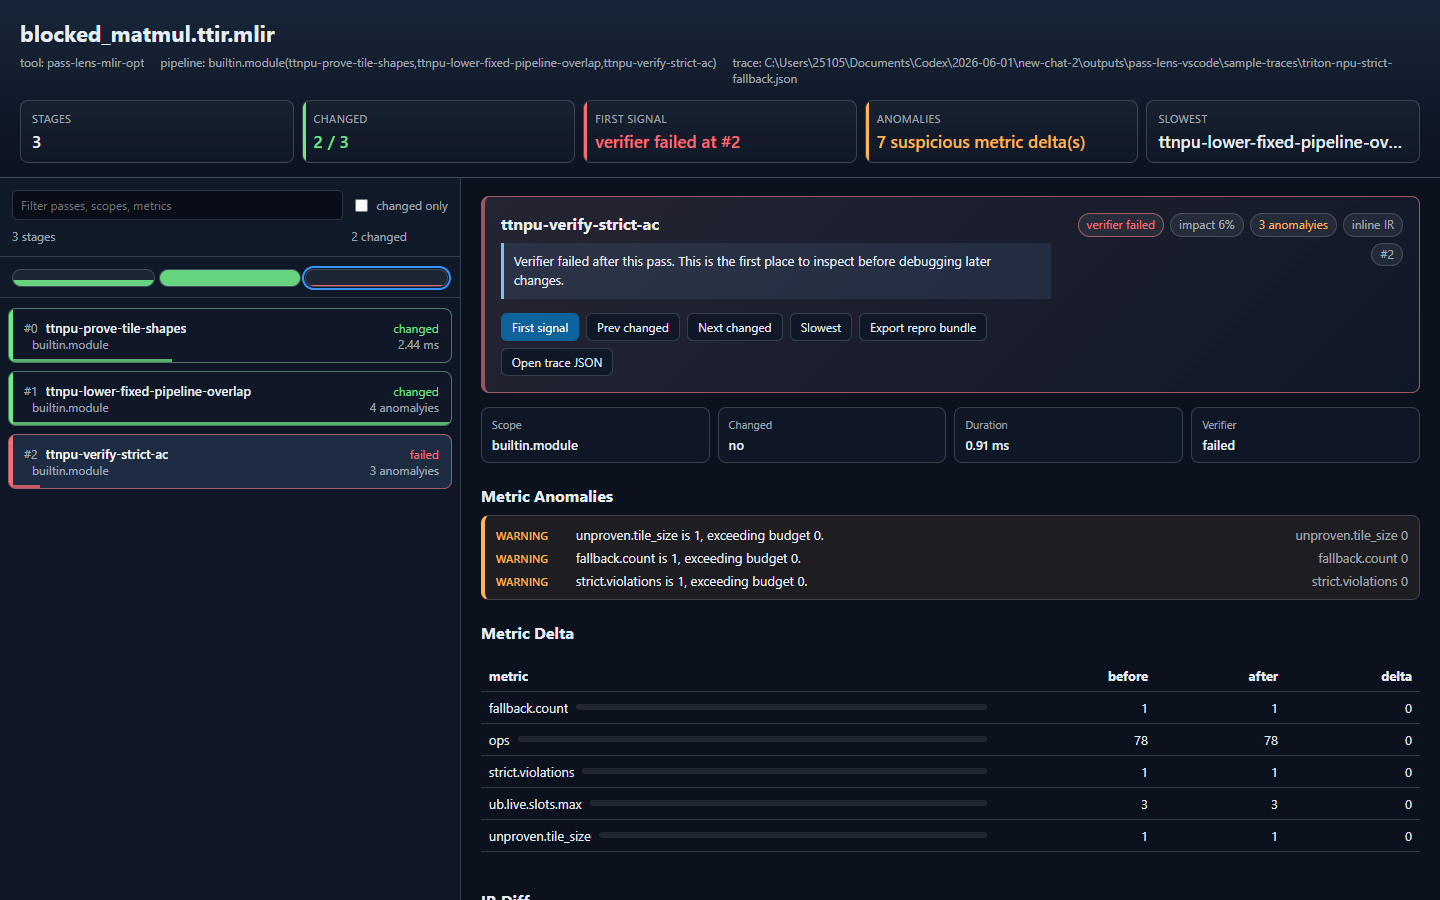
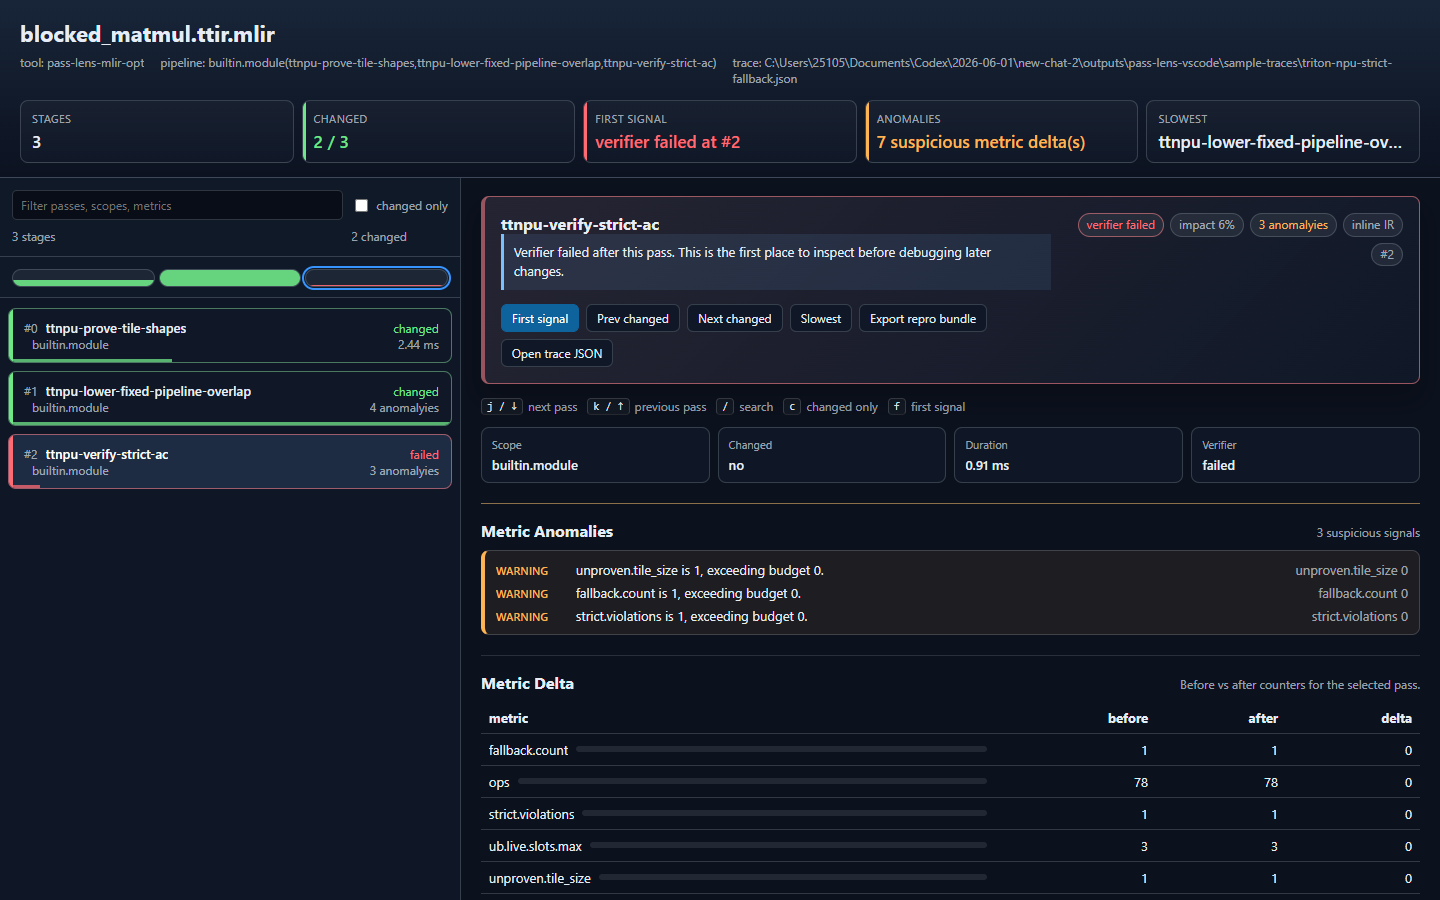
Polish trace detail sections

diff --git a/media/tracePanel.js b/media/tracePanel.js
@@ -414,6 +414,7 @@
   
     details.innerHTML =
       renderPassHero(stage) +
+      renderShortcutStrip() +
       '<div class="details-grid">' +
         kv('Scope', stage.scope ?? 'unknown') +
         kv('Changed', stage.changed ? 'yes' : 'no') +
@@ -421,10 +422,12 @@
         kv('Verifier', stage.verifier ?? 'unknown') +
       '</div>' +
       renderMetricAnomalies(stage.index) +
-      '<h2>Metric Delta</h2>' +
-      renderMetrics(stage.metricsBefore ?? {}, stage.metricsAfter ?? {}) +
-      '<h2>IR Diff</h2>' +
-      renderDiff(stage) +
+      sectionBlock('Metric Delta', renderMetrics(stage.metricsBefore ?? {}, stage.metricsAfter ?? {}), {
+        hint: 'Before vs after counters for the selected pass.'
+      }) +
+      sectionBlock('IR Diff', renderDiff(stage), {
+        hint: stageIrSource(stage)
+      }) +
       renderCommandAndDiagnostics(stage);
   }
   
@@ -461,6 +464,20 @@
       '<button class="action-button" data-action="open-trace">Open trace JSON</button>' +
     '</div>';
   }
+
+  function renderShortcutStrip() {
+    return '<div class="shortcut-strip" aria-label="Keyboard shortcuts">' +
+      shortcutKey('j / ↓', 'next pass') +
+      shortcutKey('k / ↑', 'previous pass') +
+      shortcutKey('/', 'search') +
+      shortcutKey('c', 'changed only') +
+      shortcutKey('f', 'first signal') +
+    '</div>';
+  }
+
+  function shortcutKey(key, label) {
+    return '<span class="shortcut"><kbd>' + escapeHtml(key) + '</kbd>' + escapeHtml(label) + '</span>';
+  }
   
   function renderInsight(stage) {
     const failed = isFailedStage(stage);
@@ -483,7 +500,7 @@
     if (!entries.length) {
       return '';
     }
-    return '<h2>Metric Anomalies</h2><div class="anomaly-panel"><div class="anomaly-list">' +
+    const body = '<div class="anomaly-panel"><div class="anomaly-list">' +
       entries.map((entry) => {
         const delta = entry.delta > 0 ? '+' + fmtNumber(entry.delta) : String(fmtNumber(entry.delta));
         return '<div class="anomaly-item">' +
@@ -493,6 +510,22 @@
         '</div>';
       }).join('') +
     '</div></div>';
+    return sectionBlock('Metric Anomalies', body, {
+      tone: 'warning',
+      hint: entries.length + ' suspicious signal' + (entries.length === 1 ? '' : 's')
+    });
+  }
+
+  function sectionBlock(title, body, options = {}) {
+    if (!body) {
+      return '';
+    }
+    const tone = options.tone ? ' ' + escapeHtml(options.tone) : '';
+    const hint = options.hint ? '<span class="section-hint">' + escapeHtml(options.hint) + '</span>' : '';
+    return '<section class="detail-section' + tone + '">' +
+      '<div class="section-heading"><h2>' + escapeHtml(title) + '</h2>' + hint + '</div>' +
+      body +
+    '</section>';
   }
   
   function kv(label, value) {
@@ -544,13 +577,21 @@
   
   function renderCommandAndDiagnostics(stage) {
     const command = trace.command
-      ? '<h2>Repro Command</h2><div class="action-row"><button class="action-button" data-action="copy-command">Copy command</button></div><pre class="diagnostics">' + escapeHtml(trace.command) + '</pre>'
+      ? sectionBlock('Repro Command', '<div class="action-row compact"><button class="action-button" data-action="copy-command">Copy command</button></div><pre class="diagnostics">' + escapeHtml(trace.command) + '</pre>', {
+        hint: 'Copyable command context'
+      })
       : '';
     const stageDiagnostics = stage.diagnostics
-      ? '<h2>Stage Diagnostics</h2>' + renderSourceLine('diagnostics', stage.artifacts?.diagnosticsPath, stage.diagnostics) +
-        '<pre class="diagnostics">' + escapeHtml(stage.diagnostics) + '</pre>'
+      ? sectionBlock('Stage Diagnostics', renderSourceLine('diagnostics', stage.artifacts?.diagnosticsPath, stage.diagnostics) +
+        '<pre class="diagnostics">' + escapeHtml(stage.diagnostics) + '</pre>', {
+        hint: 'Selected pass output'
+      })
       : '';
-    const traceDiagnostics = trace.diagnostics ? '<h2>Trace Diagnostics</h2><pre class="diagnostics">' + escapeHtml(trace.diagnostics) + '</pre>' : '';
+    const traceDiagnostics = trace.diagnostics
+      ? sectionBlock('Trace Diagnostics', '<pre class="diagnostics">' + escapeHtml(trace.diagnostics) + '</pre>', {
+        hint: 'Collector-level context'
+      })
+      : '';
     return command + stageDiagnostics + traceDiagnostics;
   }
   

diff --git a/media/tracePanel.css b/media/tracePanel.css
@@ -378,6 +378,24 @@ section {
   padding: 18px 20px 32px;
 }
 
+.detail-section {
+  margin-top: 20px;
+  padding-top: 16px;
+  border-top: 1px solid color-mix(in srgb, var(--border) 78%, transparent);
+}
+
+.detail-section.warning {
+  border-top-color: color-mix(in srgb, var(--warning) 44%, var(--border));
+}
+
+.section-heading {
+  display: flex;
+  align-items: baseline;
+  justify-content: space-between;
+  gap: 12px;
+  margin: 0 0 9px;
+}
+
 .pass-hero {
   display: flex;
   flex-wrap: wrap;
@@ -405,14 +423,19 @@ section {
 }
 
 .details h2 {
-  margin: 22px 0 9px;
+  margin: 0;
   font-size: 16px;
   font-weight: 650;
   overflow-wrap: anywhere;
 }
 
-.details h2:first-child {
-  margin-top: 0;
+.section-hint {
+  min-width: 0;
+  overflow: hidden;
+  color: var(--muted);
+  font-size: 12px;
+  text-overflow: ellipsis;
+  white-space: nowrap;
 }
 
 .insight {
@@ -459,6 +482,10 @@ section {
   margin-top: 11px;
 }
 
+.action-row.compact {
+  margin: 0 0 6px;
+}
+
 .action-button {
   color: var(--vscode-button-secondaryForeground, var(--app-fg));
   background: var(--vscode-button-secondaryBackground, var(--panel-strong));
@@ -485,7 +512,7 @@ section {
   display: grid;
   grid-template-columns: repeat(auto-fit, minmax(132px, 1fr));
   gap: 8px;
-  margin: 10px 0 16px;
+  margin: 12px 0 0;
 }
 
 .kv {
@@ -515,7 +542,7 @@ section {
   border-radius: 8px;
   background: color-mix(in srgb, var(--warning) 8%, transparent);
   padding: 10px 11px;
-  margin-bottom: 16px;
+  margin-bottom: 0;
 }
 
 .anomaly-list {
@@ -553,7 +580,7 @@ section {
 table.metrics {
   width: 100%;
   border-collapse: collapse;
-  margin: 8px 0 16px;
+  margin: 0;
   font-variant-numeric: tabular-nums;
 }
 
@@ -721,6 +748,35 @@ pre.diagnostics {
   overflow-wrap: anywhere;
   font-family: var(--vscode-editor-font-family, Consolas, "Cascadia Mono", monospace);
   font-size: var(--vscode-editor-font-size, 13px);
+}
+
+.shortcut-strip {
+  display: flex;
+  flex-wrap: wrap;
+  gap: 6px 10px;
+  margin: 10px 0 0;
+  color: var(--muted);
+  font-size: 12px;
+}
+
+.shortcut {
+  display: inline-flex;
+  align-items: center;
+  gap: 5px;
+  min-width: 0;
+}
+
+kbd {
+  min-width: 18px;
+  border: 1px solid var(--border);
+  border-bottom-color: color-mix(in srgb, var(--border) 65%, #000000);
+  border-radius: 4px;
+  padding: 1px 5px;
+  background: color-mix(in srgb, var(--code-bg) 82%, var(--app-fg) 5%);
+  color: var(--app-fg);
+  font-family: var(--vscode-editor-font-family, Consolas, "Cascadia Mono", monospace);
+  font-size: 11px;
+  text-align: center;
 }
 
 @media (max-width: 900px) {
